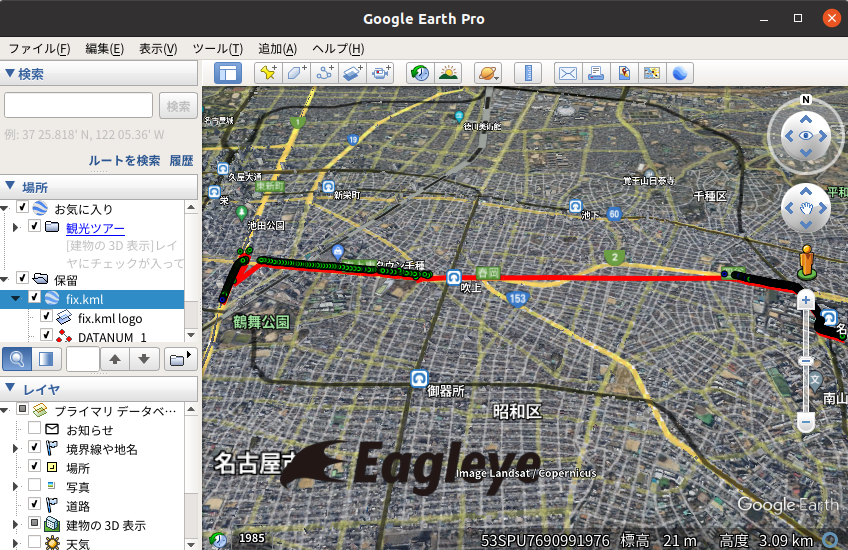
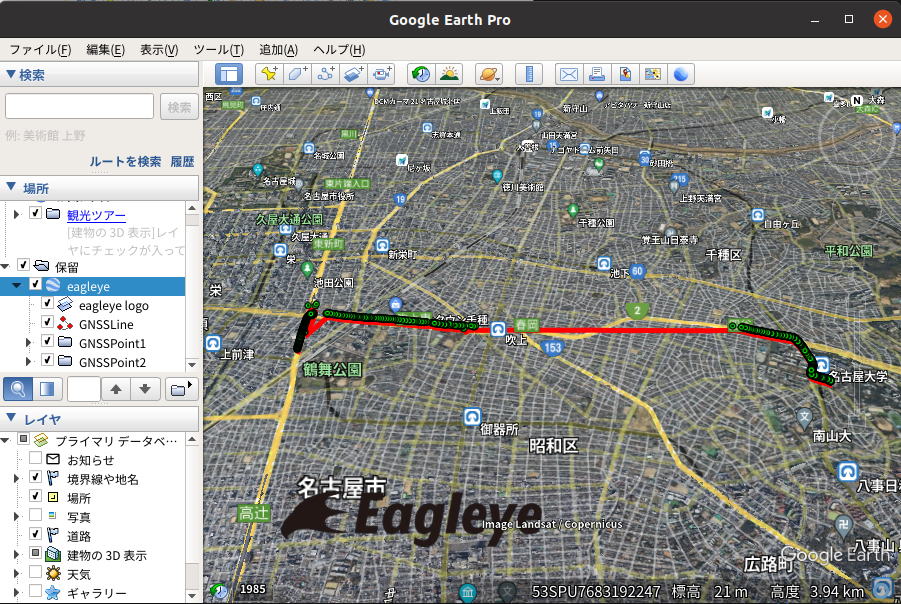
Fix name in kml

diff --git a/src/kml_generator/kml_generator.cpp b/src/kml_generator/kml_generator.cpp
@@ -15,13 +15,13 @@ KmlGenerator::KmlGenerator(std::string file_name)
   initKml(file_name_);
 }
 
-KmlGenerator::KmlGenerator(std::string file_name, std::string log_link_url)
+KmlGenerator::KmlGenerator(std::string file_name, std::string logo_name, std::string log_link_url)
 {
   file_name_ = file_name;
   log_link_url_ = log_link_url;
   kml_file_ofs_.open(file_name_, std::ios::out);
   std::cout << "Output file = " << file_name_ << std::endl;
-  initKml(file_name_);
+  initKml(logo_name);
 
 }
 
@@ -113,15 +113,11 @@ bool KmlGenerator::addKmlPointBody(std::string data_name, std::string data_str)
           "\t\t</BalloonStyle>\n"
           "\t</Style>\n"
           "<Folder id=\"ID2\">\n"
-          "\t<name>CAR Trajectory</name>\n"
+          "\t<name>" + data_name + "</name>\n"
           "\t<visibility>1</visibility>\n"
           "\t<open>0</open>"
           ;
-  body_ += "\t<Folder id=\"ID21\">\n"
-    "\t<name> " + data_name + " </name>\n"
-    "\t<visibility>0</visibility>\n";
   body_ += data_str;
-  body_ += "\t</Folder>\n";
   body_ += "\t</Folder>\n";
 
   return true;
@@ -221,6 +217,7 @@ bool KmlGenerator::addNavSatFixMsgVectorLine(const std::vector<sensor_msgs::NavS
 
 bool KmlGenerator::addNavSatFixMsgVectorLine(const std::vector<sensor_msgs::NavSatFix>& fix_msg_vector, std::string data_name)
 {
+  data_name.erase(std::remove(data_name.begin(), data_name.end(), ' '), data_name.end());
   std::string data_str = NavSatFixMsgVector2LineStr(fix_msg_vector);
 
   data_count_++;
@@ -236,6 +233,17 @@ bool KmlGenerator::addNavSatFixMsgVectorPoint(const std::vector<sensor_msgs::Nav
 
   data_count_++;
   data_name = "DATANUM_" + std::to_string(data_count_);
+
+  std::string data_str = NavSatFixMsgVector2PointStr(fix_msg_vector, data_name);
+
+  if (!addKmlPointBody(data_name, data_str)) return false;
+  return true;
+}
+
+bool KmlGenerator::addNavSatFixMsgVectorPoint(const std::vector<sensor_msgs::NavSatFix>& fix_msg_vector, std::string data_name)
+{
+  data_name.erase(std::remove(data_name.begin(), data_name.end(), ' '), data_name.end());
+  data_count_++;
 
   std::string data_str = NavSatFixMsgVector2PointStr(fix_msg_vector, data_name);
 

diff --git a/sample/fixcsv2kml.cpp b/sample/fixcsv2kml.cpp
@@ -90,12 +90,13 @@ int main(int argc, char** argv) {
 
   std::vector<sensor_msgs::NavSatFix> vector_fix = NavSatFixMsgCsvtoVector(csv_name);
 
-  std::string log_link_url = "https://github.com/MapIV/eagleye/blob/main-ros1/docs/logo.png";
-  KmlGenerator kml_generator(kml_name, log_link_url);
+  std::string logo_name = "eagleye";
+  std::string logo_link_url = "https://github.com/MapIV/eagleye/blob/main-ros1/docs/logo.png";
+  KmlGenerator kml_generator(kml_name, logo_name, logo_link_url);
 
-  kml_generator.addNavSatFixMsgVectorLine(vector_fix);
-  kml_generator.addNavSatFixMsgVectorPoint(vector_fix);
-  kml_generator.addNavSatFixMsgVectorPoint(vector_fix);
+  kml_generator.addNavSatFixMsgVectorLine(vector_fix, "GNSS Line");
+  kml_generator.addNavSatFixMsgVectorPoint(vector_fix, "GNSS Point1");
+  kml_generator.addNavSatFixMsgVectorPoint(vector_fix, "GNSS Point2");
 
   kml_generator.outputKml();
 

diff --git a/include/kml_generator/kml_generator.hpp b/include/kml_generator/kml_generator.hpp
@@ -14,7 +14,7 @@ class KmlGenerator
 public:
   KmlGenerator();
   KmlGenerator(std::string file_name);
-  KmlGenerator(std::string file_name, std::string log_link_url);
+  KmlGenerator(std::string file_name, std::string logo_name, std::string log_link_url);
 
   void initKml(std::string name);
 
